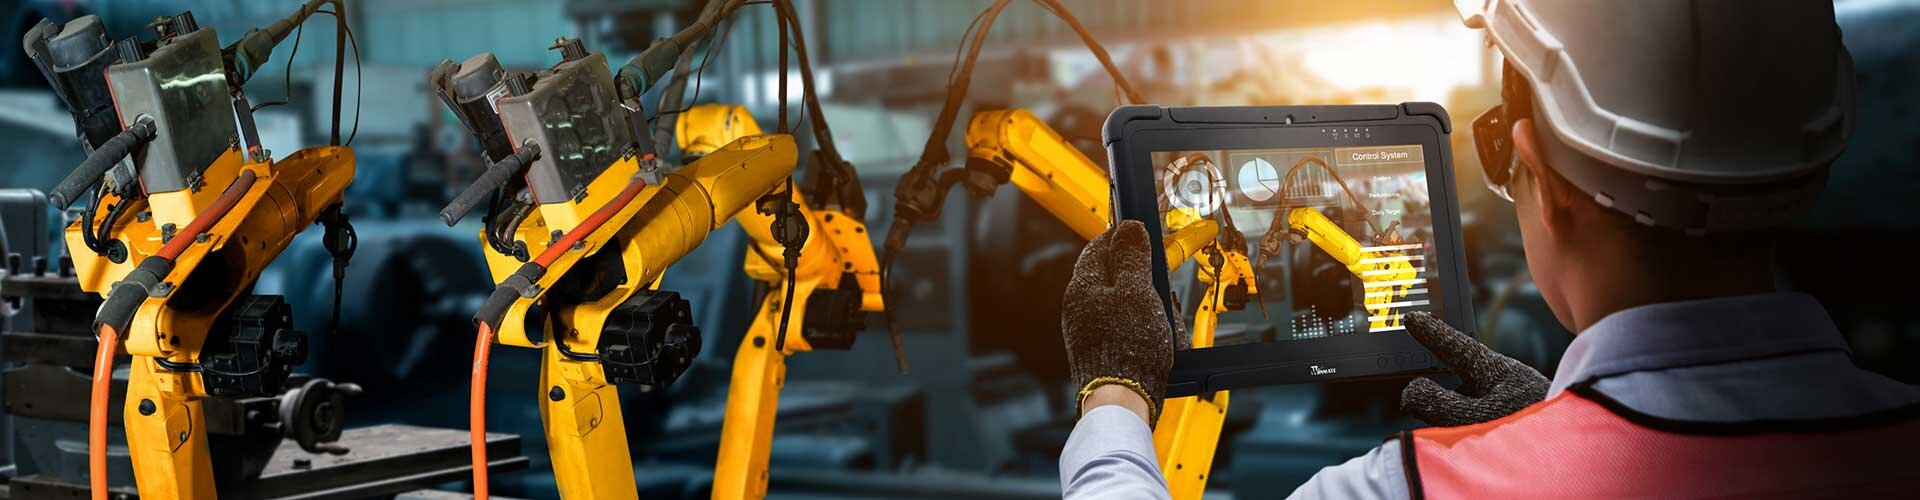
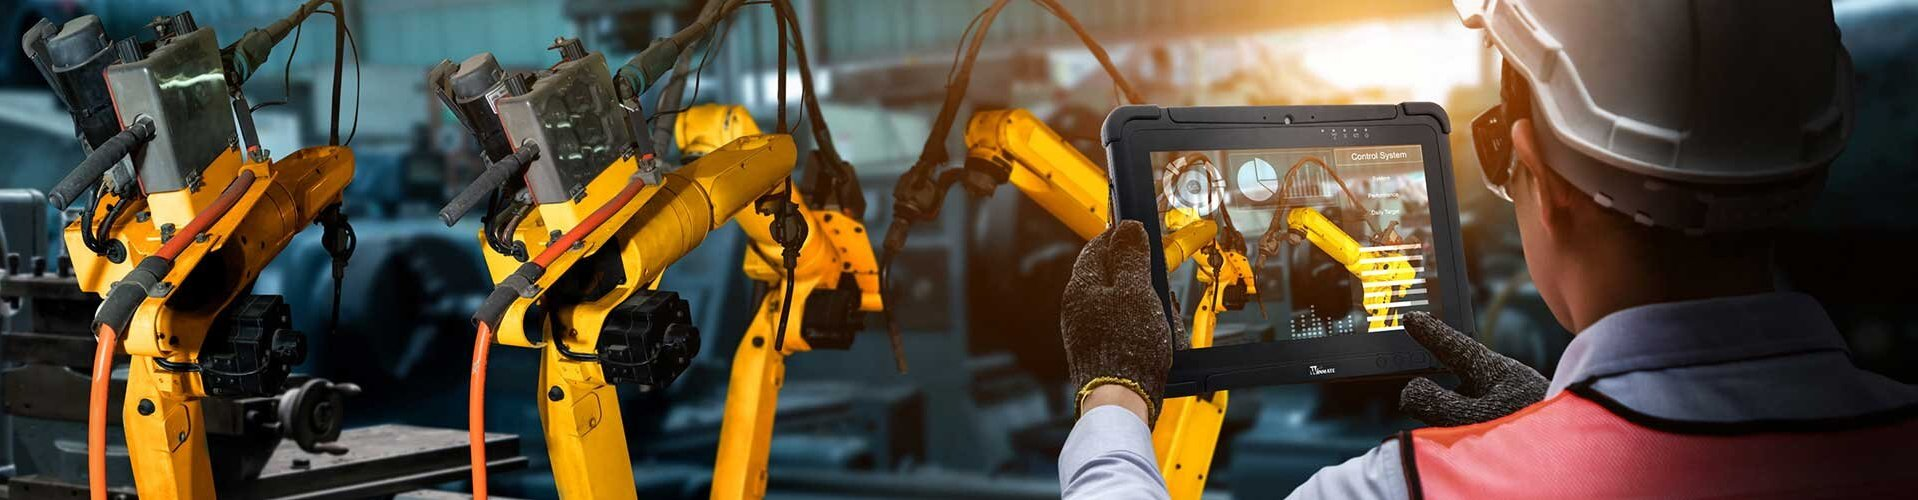
update images and carrer changes

diff --git a/src/page/Carrers.js b/src/page/Carrers.js
@@ -4,29 +4,24 @@ import graduates from "../images/graduates.svg";
 import location from "../images/location.svg";
 import professionals from "../images/professionals.svg";
 import students from "../images/students.svg";
-import slider1 from "../images/slider1.png";
+import careerSide from "../images/career/car-side.webp";
 
 export const Carrers = () => {
   const items = [
-    {
-      title: "Graduates",
-      imgSrc: graduates,
-      backgroundColor: "var(--orange)", // Define background color here
-    },
     {
       title: "Experienced Professionals",
       imgSrc: professionals,
       backgroundColor: "#00a4ef",
     },
     {
+      title: "Trainee",
+      imgSrc: graduates,
+      backgroundColor: "var(--orange)", // Define background color here
+    },
+    {
       title: "Students/Internships",
       imgSrc: students,
       backgroundColor: "#5ca904",
-    },
-    {
-      title: "Consulting",
-      imgSrc: location,
-      backgroundColor: "#ffb900",
     },
   ];
   const [activeTab, setActiveTab] = useState("Graduates");
@@ -38,9 +33,8 @@ export const Carrers = () => {
           <img src={carrer_bnnr} width="100%" height="auto" />
         </div>
       </section>
-      <div className="mb-2 pt-5 mt-3 container ">
-        <div className="row  justify-content-center  ">
-          <div className="col-lg-10 whatWeDo">
+
+      {/* <div className="col-lg-10 whatWeDo">
             <h1
               style={{
                 fontWeight: "600",
@@ -73,8 +67,80 @@ export const Carrers = () => {
               establish a workplace that promotes both freedom and
               responsibility while encouraging self-governance for all.
             </p>
+          </div> */}
+
+      <div style={{ backgroundColor: "#f1f1f1" }}>
+        <div className="container pt-5">
+          <div className="row pt-5">
+            <div className="col col-md-8 col-sm-12 col-lg-7 mb-5">
+              <div className="whatWeDo">
+                <h1
+                  style={{
+                    fontWeight: "600",
+                    letterSpacing: "3px",
+                  }}
+                  className="text-start list-group-item"
+                >
+                  Our Career
+                </h1>
+                <p
+                  className="card-paragraph mt-4"
+                  style={{ textAlign: "justify" }}
+                >
+                  Airi-Sense offers you a wide range of traditional and out of
+                  the box technologies for automated warehousing that provide
+                  quality, flexibility and efficiency.
+                </p>
+                <p
+                  className="card-paragraph mt-4"
+                  style={{ textAlign: "justify" }}
+                >
+                  Modular, flexible and software-driven material handling
+                  technologies
+                </p>
+                <p
+                  className="card-paragraph mt-4"
+                  style={{ textAlign: "justify" }}
+                >
+                  Every customer has different requirements. Our customised
+                  solutions with our inhouse products are perfectly harmonized
+                  to your needs and guarantee the optimal flow of goods at a
+                  minimal operational cost.
+                </p>
+                <p
+                  className="card-paragraph mt-4"
+                  style={{ textAlign: "justify" }}
+                >
+                  It doesn’t matter what you are looking for, we offer the
+                  materials handling technology that perfectly meets your needs
+                  from receiving to shipping.
+                </p>
+                {/* <Link to="/about">
+                  {" "}
+                  <div className="btn btn-lg btn-borderd button-1 my-3">
+                    What We Do
+                  </div>{" "}
+                </Link> */}
+              </div>
+            </div>
+
+            <div className="col-md-12 col-sm-12 col-lg-5 mb-5">
+              <div className="about_us_img ps-5 pt-5">
+                <img
+                  src={careerSide}
+                  className="image-fluid ms-2"
+                  width="100%"
+                  alt="productdescription"
+                />
+              </div>
+            </div>
           </div>
-          <div className="col-lg-10 whatWeDo py-3">
+        </div>
+      </div>
+
+      <div className="mb-2 pt-3 container ">
+        <div className="row  justify-content-center  ">
+          <div className="col-lg-10 whatWeDo pt-5">
             <h1
               style={{
                 fontWeight: "600",
@@ -92,18 +158,11 @@ export const Carrers = () => {
               Airi-Sense an ideal platform for individuals looking to explore
               career opportunities.
             </p>
-            <p>
-              We wholeheartedly back employees who aspire to make a significant
-              impact in their chosen fields by channeling their passion and
-              energy. Our guidance and mentorship provide them with the
-              essential tools to explore new career horizons and reach their
-              full potential.
-            </p>
           </div>
-          <div className="row py-5">
+          <div className="row  justify-content-center pt-3">
             {items.map((item, index) => (
               <div
-                className={`col-lg-3 col-md-3 col-sm-6 col-xs-12 py-3 wow fadeInLeft animated position-relative`}
+                className={`col-lg-3 col-md-3 col-sm-6 col-xs-12 py-3 me-3 wow fadeInLeft animated position-relative`}
                 data-wow-delay={item.delay}
                 key={index}
                 onClick={() => setActiveTab(item.title)}
@@ -158,7 +217,7 @@ export const Carrers = () => {
                             }}
                             className="text-start"
                           >
-                            About
+                            Carrer
                           </h1>
                           <p
                             className="card-paragraph mt-4"
@@ -179,12 +238,7 @@ export const Carrers = () => {
 
                       <div className="col-md-12 col-sm-12 col-lg-5 mb-5">
                         <div className="about_us_img">
-                          <img
-                            src={slider1}
-                            width="100%"
-                            className="ps-5"
-                            alt=""
-                          />
+                          <img src="" width="100%" className="ps-5" alt="" />
                         </div>
                       </div>
                     </div>
@@ -199,12 +253,7 @@ export const Carrers = () => {
                     <div className="row justify-content-between align-items-center">
                       <div className="col-md-12 col-sm-12 col-lg-5 mb-5">
                         <div className="about_us_img">
-                          <img
-                            src={slider1}
-                            width="100%"
-                            className="ps-5"
-                            alt=""
-                          />
+                          <img src="" width="100%" className="ps-5" alt="" />
                         </div>
                       </div>
                       <div className="col col-md-8 col-sm-12 col-lg-6 mb-5">
@@ -216,7 +265,7 @@ export const Carrers = () => {
                             }}
                             className="text-start"
                           >
-                            About
+                            Carrer
                           </h1>
                           <p
                             className="card-paragraph mt-4"
@@ -253,7 +302,7 @@ export const Carrers = () => {
                             }}
                             className="text-start"
                           >
-                            About
+                            Carrer
                           </h1>
                           <p
                             className="card-paragraph mt-4"
@@ -274,59 +323,7 @@ export const Carrers = () => {
 
                       <div className="col-md-12 col-sm-12 col-lg-5 mb-5">
                         <div className="about_us_img">
-                          <img
-                            src={slider1}
-                            width="100%"
-                            className="ps-5"
-                            alt=""
-                          />
-                        </div>
-                      </div>
-                    </div>
-                  </div>
-                </section>
-              </div>
-            )}
-            {activeTab === "Consulting" && (
-              <div>
-                <section className="section_padding partnerSec1">
-                  <div className="container py-5">
-                    <div className="row justify-content-between align-items-center">
-                      <div className="col-md-12 col-sm-12 col-lg-5 mb-5">
-                        <div className="about_us_img">
-                          <img
-                            src={slider1}
-                            width="100%"
-                            className="ps-5"
-                            alt=""
-                          />
-                        </div>
-                      </div>
-                      <div className="col col-md-8 col-sm-12 col-lg-6 mb-5">
-                        <div className="whatWeDo">
-                          <h1
-                            style={{
-                              fontWeight: "600",
-                              letterSpacing: "3px",
-                            }}
-                            className="text-start"
-                          >
-                            About
-                          </h1>
-                          <p
-                            className="card-paragraph mt-4"
-                            style={{ textAlign: "justify" }}
-                          >
-                            Airi sense delivers data-driven & robotic solutions
-                            for your logistics automation alongside reliable,
-                            modular service concepts. divlaborating with
-                            forward-thinking companies, we are committed to
-                            setting new standards in warehouse automation to
-                            provide future-proof products and solutions. As part
-                            of the KUKA Group, our customers trust the
-                            competence of our passionate employees – more than
-                            14,000 people working across the globe.
-                          </p>
+                          <img src="" width="100%" className="ps-5" alt="" />
                         </div>
                       </div>
                     </div>

diff --git a/src/page/SolutionCard.js b/src/page/SolutionCard.js
@@ -1,9 +1,13 @@
 import track_trace from "../images/solution/tracktrace.png";
 import pakeging from "../images/solution/packing.png";
 import printing from "../images/solution/printing_packing.png";
-import checkWeight from "../images/solution/check_weighing.png";
+import checkWeight from "../images/solution/check-weight.webp";
+import loading from "../images/solution/truck-loading.webp";
 import cell from "../images/solution/palletizing_Cell.png";
 import pic from "../images/solution/pick_place.png";
+import vertical from "../images/solution/vertical.webp";
+import inline from "../images/solution/inline-storage.webp";
+
 
 export const solutionCard = [
   {
@@ -26,8 +30,8 @@ export const solutionCard = [
     ],
   },
   {
-    img:  checkWeight,
-    title: "Track Loading",
+    img:  loading,
+    title: "Truck Loading",
     list: [
      
     ],
@@ -43,18 +47,18 @@ export const solutionCard = [
     list: [],
   },
   {
-    img: printing,
+    img: checkWeight,
     title: "Weigh & Reject",
     list: [],
   },
   {
-    img: printing,
+    img: inline,
     title: "Inline Storage",
     list: [],
   },
   {
-    img: printing,
-    title: "Verticle Transfer",
+    img: vertical,
+    title: "Vertical Transfer",
     list: [],
   },
 

diff --git a/src/component/Slider.js b/src/component/Slider.js
@@ -1,8 +1,9 @@
 import React from 'react';
 import Carousel from 'react-bootstrap/Carousel';
-import slider1 from '../images/slider1.png';
+import slider1 from '../images/slider1.jpg';
 import slider2 from '../images/slider2.png';
 import slider3 from '../images/slider3.png';
+import slider4 from '../images/slider4.jpg';
 import './header.css';
 
 export const Slider = () => {
@@ -55,7 +56,7 @@ export const Slider = () => {
   <Carousel.Item style={{ height: "70vh" }}>
     <img
       className="d-block w-100"
-      src={slider1}
+      src={slider4}
       alt="Fourth slide"
  
     />

diff --git a/src/page/ProductCards.js b/src/page/ProductCards.js
@@ -1,6 +1,6 @@
 import product1 from '../images/product/product1.jpg';
 import product2 from '../images/product/product2.png';
-import product3 from '../images/product/product3.png';
+import product3 from '../images/product/product3.webp';
 import product4 from '../images/product/product4.jpg';
 import product5 from '../images/product/product5.png';
 import product6 from '../images/product/product6.jpg';

diff --git a/src/page/Solutions.js b/src/page/Solutions.js
@@ -49,8 +49,8 @@ export const Solutions = () => {
 
       
 
-      <div className="mx-lg-5 py-5">
-        <div className="row justify-content-center pt-5  mx-lg-5 mx-3">
+      <div className=" pt-3 pb-5">
+        <div className="row justify-content-center mx-3">
       { solutionCard.map((card, index) => (
         <div className="col-lg-3 mx-2">
                 <Card 

diff --git a/src/page/Product.js b/src/page/Product.js
@@ -1,5 +1,5 @@
 import React, { useState } from "react";
-import product_bnr from "../images/product/product_bnr.png";
+import product_bnr from "../images/product/product_bnr.jpg";
 import { ListGroup } from "react-bootstrap";
 import productDiscription from "../images/product/productDis.png";
 

diff --git a/src/component/HomeAbout.js b/src/component/HomeAbout.js
@@ -1,5 +1,5 @@
 import React from "react";
-import home_side1 from "../images/home_side2.png";
+import home_side1 from "../images/home-side1.png";
 import { Link } from "react-router-dom";
 import { Button } from "react-bootstrap";
 
